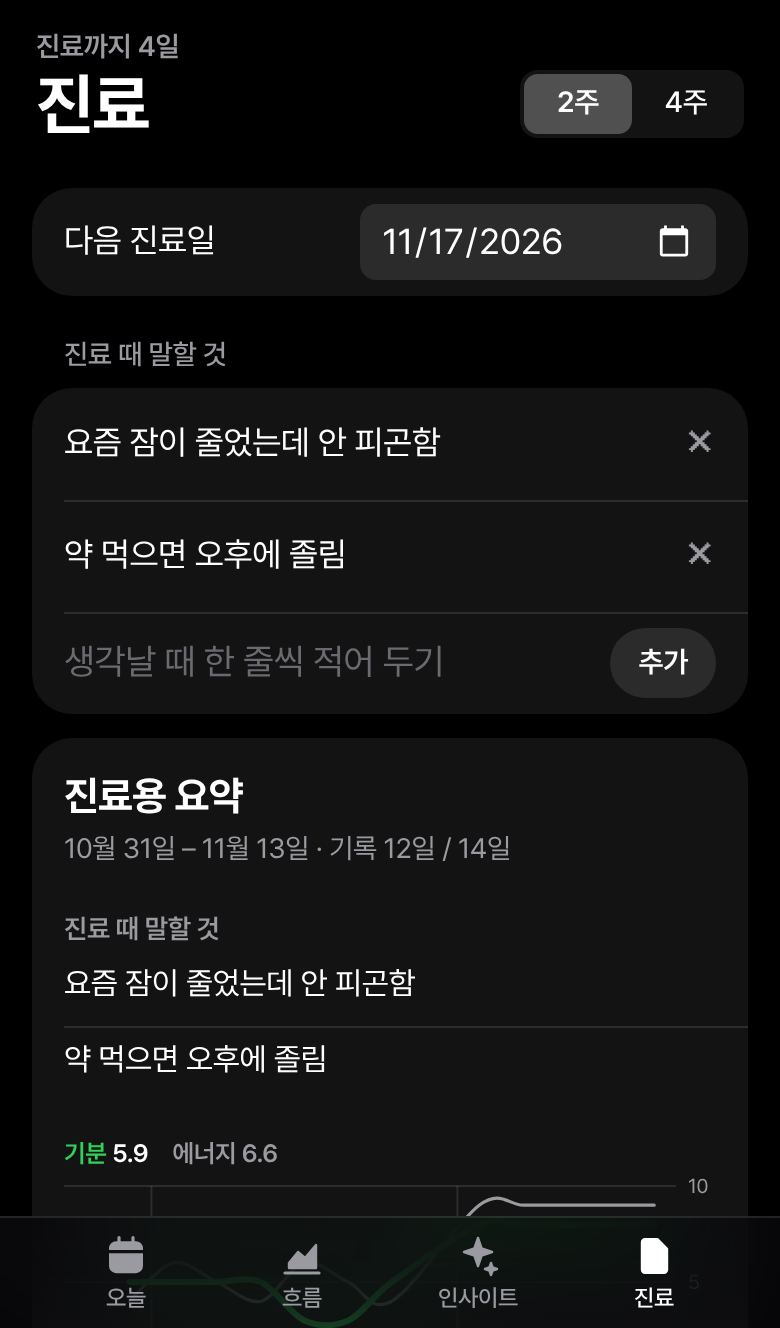
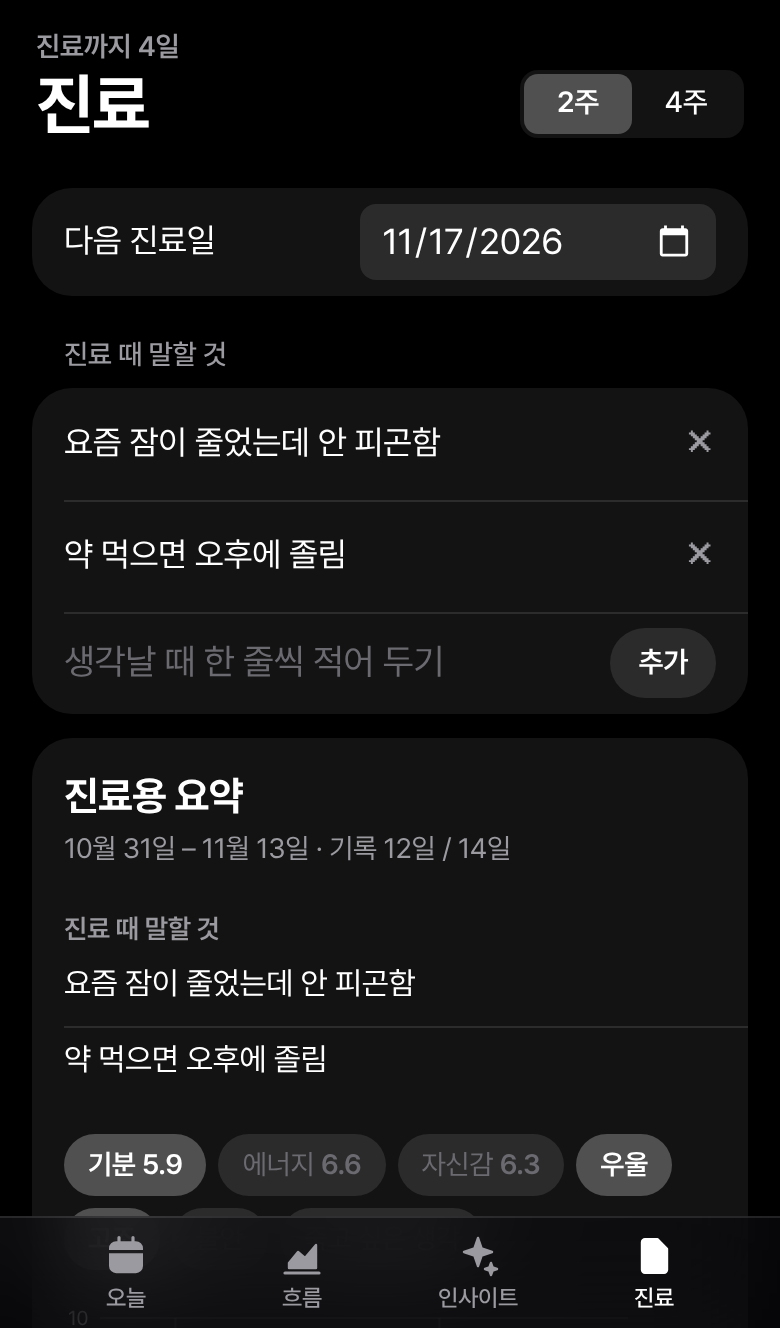
Tide: clinic picture is one big chart with lines you switch on and off
Mood, energy, confidence and the four symptoms share one large chart; buttons above it turn each line on or off and each line is named at its end. Sleep keeps its own row without the short-night dots (they were not understood). Medication days are thin o / x marks.

Claude-Session: https://claude.ai/code/session_01Du4KAy7crrN67i73oW7iBF

diff --git a/mood/js/views/clinic.js b/mood/js/views/clinic.js
@@ -1,5 +1,5 @@
 // 진료 화면: 다음 진료일, 진료 때 말할 것, 진료용 요약 (최근 2주/4주를 한 장으로)
-import { SHORT_SLEEP, summary } from '../analysis.js';
+import { summary } from '../analysis.js';
 import { DISCLAIMER, LEVELS } from '../constants.js';
 import { durText, md, parse, today } from '../dates.js';
 import { app, esc } from '../dom.js';
@@ -25,30 +25,36 @@ function nextText() {
   return left > 0 ? F('진료까지 {0}일', left) : left === 0 ? T('오늘 진료') : '';
 }
 
-// 한눈에 보는 그림: 날짜를 가로로 맞춰 놓고 항목마다 한 칸씩 위에서 아래로 쌓는다.
-// 칸마다 왼쪽 위에 이름(과 평균), 오른쪽 위에 한 줄 요약, 그 아래에 그림이 온다.
-//   기분·에너지(곡선) → 수면(곡선, 5시간 미만인 밤에 점) → 증상(곡선, 높을수록 심함) → 약·생리(그날에 점)
-// 선은 전부 부드러운 실선, 표시는 전부 동그라미다. 색은 CSS 변수를 따라가서 다크·라이트·인쇄에서 그대로 읽힌다.
+// 큰 그래프에 켜고 끌 수 있는 선들: [열쇠, 이름, 가장 높은 값]. 증상(0~4)은 그래프 높이에 맞춰 늘려 그린다.
+const lineDefs = () => [
+  ['mood', T('기분'), 10], ['energy', T('에너지'), 10], ['conf', T('자신감'), 10],
+  ['dep', T('우울'), 4], ['elev', T('고조'), 4], ['anx', T('불안'), 4], ['si', T('죽고 싶은 생각'), 4],
+];
+
+// 한눈에 보는 그림: 날짜를 가로로 맞춰 놓고
+//   큰 그래프 하나(켜 둔 선들, 선 끝에 이름) → 수면(곡선) → 약(먹은 날 ○, 안 먹은 날 ×) → 생리(○)
+// 를 위에서 아래로 쌓는다. 선은 전부 부드러운 실선이다. 색은 CSS 변수를 따라가서 다크·라이트·인쇄에서 그대로 읽힌다.
 function figure(s, width) {
-  const n = s.dates.length, pw = width - 20, col = pw / n;
-  const cx = (i) => col * (i + 0.5);
+  // 오른쪽에는 선 끝 이름이 들어갈 자리를 둔다 (이름이 긴 "죽고 싶은 생각"을 켰을 때만 넓게)
+  const n = s.dates.length, L = 18, R = clinicView.lines.includes('si') ? 80 : 44, pw = width - L - R, col = pw / n;
+  const cx = (i) => L + col * (i + 0.5);
   const ink = 'style="fill:var(--ink)"', mutedText = 'style="fill:var(--muted)"';
   const accent = tone('mood', 10) || 'var(--ink)';
   const marks = s.dates.map((d, i) => (i === 0 || parse(d).getDay() === 1 ? i : -1)).filter((i) => i >= 0);
-  let out = '', y = 12;
+  let out = '', y = 6;
 
   const head = (left, right) => {
-    out += `<text x="0" y="${y}" font-size="12.5" font-weight="600" ${ink}>${left}</text>`;
+    out += `<text x="${L}" y="${y}" font-size="12.5" font-weight="600" ${ink}>${left}</text>`;
     if (right) out += `<text x="${width}" y="${y}" font-size="11.5" text-anchor="end" ${mutedText}>${right}</text>`;
   };
   // 주마다(월요일) 세로줄: 그림이 있는 칸 안에만 긋는다
   const weekLines = (y1, y2) => marks.filter(Boolean).forEach((i) => {
-    out += `<line x1="${(col * i).toFixed(1)}" x2="${(col * i).toFixed(1)}" y1="${y1}" y2="${y2}" style="stroke:var(--line)"/>`;
+    out += `<line x1="${(L + col * i).toFixed(1)}" x2="${(L + col * i).toFixed(1)}" y1="${y1}" y2="${y2}" style="stroke:var(--line)"/>`;
   });
   const dateLabels = (at) => marks.forEach((i) => {
-    out += `<text x="${(col * i + 2).toFixed(1)}" y="${at}" font-size="10" ${mutedText}>${shortDate(s.dates[i])}</text>`;
+    out += `<text x="${(L + col * i + 2).toFixed(1)}" y="${at}" font-size="10" ${mutedText}>${shortDate(s.dates[i])}</text>`;
   });
-  const points = (key, yOf) => s.days.map((e, i) => (e && e[key] != null ? [cx(i), yOf(e[key]), e[key]] : null)).filter(Boolean);
+  const points = (key, yOf) => s.days.map((e, i) => (e && e[key] != null ? [cx(i), yOf(e[key])] : null)).filter(Boolean);
   // 값이 있는 날들을 부드러운 곡선으로 잇는다 (하루뿐이면 점 하나). area가 있으면 곡선 아래를 옅게 채운다.
   const curve = (pts, yMin, yMax, color, w, area) => {
     if (pts.length < 2) { pts.forEach((p) => { out += `<circle cx="${p[0].toFixed(1)}" cy="${p[1].toFixed(1)}" r="2.6" style="fill:${color}"/>`; }); return; }
@@ -56,58 +62,57 @@ function figure(s, width) {
     if (area) out += `<path d="${d}L${pts[pts.length - 1][0].toFixed(1)},${yMax}L${pts[0][0].toFixed(1)},${yMax}Z" style="fill:var(--fill)" stroke="none"/>`;
     out += `<path d="${d}" fill="none" stroke-linejoin="round" stroke-linecap="round" style="stroke:${color}" stroke-width="${w}"/>`;
   };
-  const floor = (at) => { out += `<line x1="0" x2="${pw}" y1="${at}" y2="${at}" style="stroke:var(--line)"/>`; };
-  const dots = (has) => {
-    const r = Math.max(2, Math.min(col / 2 - 1, 4));
-    s.dates.forEach((d, i) => { if (has(d, s.days[i])) out += `<circle cx="${cx(i).toFixed(1)}" cy="${y + 13}" r="${r.toFixed(1)}" ${ink}/>`; });
-    weekLines(y + 5, y + 21);
-  };
-  const avgOf = (st) => (st ? ` ${one(st.avg)}` : '');
+  const floor = (at) => { out += `<line x1="${L}" x2="${L + pw}" y1="${at}" y2="${at}" style="stroke:var(--line)"/>`; };
 
-  // 1. 기분 · 에너지 (0~10)
-  head(`<tspan style="fill:${accent}">${T('기분')}</tspan>${avgOf(s.mood)}<tspan dx="12" ${mutedText}>${T('에너지')}${avgOf(s.energy)}</tspan>`);
-  const SH = 96, top = y + 12, sy = (v) => top + (1 - v / 10) * SH;
-  [0, 5, 10].forEach((v) => { floor(sy(v)); out += `<text x="${pw + 6}" y="${sy(v) + 3.5}" font-size="10" ${mutedText}>${v}</text>`; });
+  // 1. 큰 그래프: 켜 둔 선들을 한 축 위에. 선 끝에 이름을 적는다 (겹치면 아래로 민다).
+  const SH = 150, top = y, sy = (v) => top + (1 - v / 10) * SH;
+  [0, 5, 10].forEach((v) => { floor(sy(v)); out += `<text x="${L - 6}" y="${sy(v) + 3.5}" font-size="10" text-anchor="end" ${mutedText}>${v}</text>`; });
   weekLines(top, top + SH);
-  curve(points('energy', sy), top, top + SH, 'var(--muted)', 1.6);
-  curve(points('mood', sy), top, top + SH, accent, 3);
+  const ends = [];
+  lineDefs().filter(([key]) => clinicView.lines.includes(key)).reverse().forEach(([key, name, max]) => {
+    const pts = points(key, (v) => sy(v / max * 10));
+    if (!pts.length) return;
+    const color = key === 'mood' ? accent : max === 10 ? 'var(--muted)' : 'var(--ink)';
+    curve(pts, top, top + SH, color, key === 'mood' ? 3 : 1.8);
+    ends.push({ name, color, x: pts[pts.length - 1][0] + 7, y: pts[pts.length - 1][1] + 3.5, bold: key === 'mood' });
+  });
+  ends.sort((a, b) => a.y - b.y).forEach((e, i) => {
+    if (i && e.y < ends[i - 1].y + 12) e.y = ends[i - 1].y + 12;
+    out += `<text x="${e.x.toFixed(1)}" y="${e.y.toFixed(1)}" font-size="10.5" font-weight="${e.bold ? 700 : 500}" style="fill:${e.color}">${e.name}</text>`;
+  });
   dateLabels(top + SH + 13);
-  y = top + SH + 40;
+  y = top + SH + 42;
 
-  // 2. 수면 (0~12시간): 5시간 미만인 밤에는 점을 찍는다
+  // 2. 수면 (0~12시간)
   head(`${T('수면')}${s.sleep ? ` ${durText(Math.round(s.sleep.avg))}` : ''}`, s.shortSleep.length ? F('5시간 미만 {0}일', s.shortSleep.length) : '');
-  const BH = 44, sTop = y + 10, base = sTop + BH, sleepPts = points('sleepMin', (m) => base - Math.min(m, 720) / 720 * BH);
+  const BH = 44, sTop = y + 10, base = sTop + BH;
   weekLines(sTop, base);
-  curve(sleepPts, sTop, base, 'var(--ink)', 2, true);
-  sleepPts.filter((p) => p[2] < SHORT_SLEEP).forEach((p) => { out += `<circle cx="${p[0].toFixed(1)}" cy="${p[1].toFixed(1)}" r="3.4" ${ink}/>`; });
+  curve(points('sleepMin', (m) => base - Math.min(m, 720) / 720 * BH), sTop, base, 'var(--ink)', 2, true);
   floor(base);
   y = base + 28;
 
-  // 3. 증상 (없음~매우 높음): 선이 높을수록 심한 날. 한 번도 없었으면 그림 없이 "없음"만 적는다.
-  [['dep', T('우울')], ['elev', T('고조')], ['anx', T('불안')], ['si', T('죽고 싶은 생각')]].forEach(([key, name]) => {
-    const any = s.days.some((e) => e && e[key]), high = s.high[key].length;
-    head(name, high ? F(key === 'si' ? '{0}일' : '높음 이상 {0}일', high) : any ? '' : T('없음'));
-    if (!any) { y += 24; return; }
-    const H = 26, t = y + 9, b = t + H;
-    weekLines(t, b);
-    curve(points(key, (v) => b - v / 4 * H), t, b, 'var(--ink)', 1.8, true);
-    floor(b);
-    y = b + 26;
-  });
-
-  // 4. 약 · 생리: 그날에 점
+  // 3. 약 · 생리: 얇은 선으로 먹은 날 ○, 안 먹은 날 ×
+  const r = Math.max(2, Math.min(col / 2 - 1.5, 4.2));
+  const marksRow = (has, cross) => {
+    s.dates.forEach((d, i) => {
+      const x = cx(i), my = y + 14;
+      if (has(d, s.days[i])) out += `<circle cx="${x.toFixed(1)}" cy="${my}" r="${r.toFixed(1)}" fill="none" stroke-width="1.2" style="stroke:var(--ink)"/>`;
+      else if (cross) {
+        const k = r * 0.75;
+        out += `<path d="M${(x - k).toFixed(1)},${(my - k).toFixed(1)}L${(x + k).toFixed(1)},${(my + k).toFixed(1)}M${(x + k).toFixed(1)},${(my - k).toFixed(1)}L${(x - k).toFixed(1)},${(my + k).toFixed(1)}" fill="none" stroke-width="1" stroke-linecap="round" style="stroke:var(--faint)"/>`;
+      }
+    });
+    y += 44;
+  };
   s.meds.forEach(([m, count]) => {
     head(esc(`${m.name}${m.dose ? ` ${m.dose}` : ''}`), F('{0}일 중 {1}일', n, count));
-    if (count) dots((d) => medsFor(d).some((x) => medKey(x) === medKey(m)));
-    y += count ? 44 : 24;
+    marksRow((d) => medsFor(d).some((x) => medKey(x) === medKey(m)), true);
   });
   if (s.period.length) {
     head(T('생리'), F('{0}일', s.period.length));
-    dots((d, e) => e && e.period);
-    y += 44;
+    marksRow((d, e) => e && e.period, false);
   }
-  dateLabels(y);
-  y += 8;
+  dateLabels(y - 6);
   return `<svg id="sum-fig" width="${width}" height="${y}" role="img" aria-label="${T('진료용 요약')}">${out}</svg>`;
 }
 
@@ -131,15 +136,19 @@ function summaryRows(s) {
 export function summaryHtml(weeks) {
   const s = summary(weeks), talk = clinicData().notes;
   const width = Math.max(240, Math.min(app.clientWidth, 480) - 32 - 32);
-  // 그림에 안 나오는 것만 짧은 딱지로: 자신감 평균, 기분이 높았던 날 체크한 항목
+  // 큰 그래프의 선을 켜고 끄는 단추: 기분·에너지·자신감은 평균을 옆에 적는다
+  const toggles = lineDefs().map(([key, name, max]) => `<button class="sum-tog" data-act="clinicLine" data-k="${key}" aria-pressed="${clinicView.lines.includes(key)}">${name}${max === 10 && s[key] ? ` <b>${one(s[key].avg)}</b>` : ''}</button>`).join('');
+  // 눈에 띄는 것은 짧은 딱지로: 며칠인지만 적는다
   const chips = [
-    ...(s.conf ? [[T('자신감 평균'), one(s.conf.avg)]] : []), ...s.signs.map(([name, c]) => [name, F('{0}일', c)]),
-  ].map(([name, value]) => `<span class="sum-chip">${esc(name)} <b>${value}</b></span>`).join('');
+    [T('우울 높음 이상'), s.high.dep.length], [T('고조 높음 이상'), s.high.elev.length], [T('불안 높음 이상'), s.high.anx.length],
+    [T('죽고 싶은 생각'), s.high.si.length], ...s.signs,
+  ].filter(([, c]) => c).map(([name, c]) => `<span class="sum-chip">${esc(name)} <b>${F('{0}일', c)}</b></span>`).join('');
   return `
     <div class="sum-top"><b>${T('진료용 요약')}</b><span>${md(parse(s.dates[0]))} – ${md(parse(s.dates[s.dates.length - 1]))} · ${F('기록 {0}일 / {1}일', s.got.length, s.dates.length)}</span></div>
     ${talk.length ? `<div class="sum-h">${T('진료 때 말할 것')}</div>${talk.map((x) => `<div class="li say">${esc(x)}</div>`).join('')}` : ''}
+    <div class="sum-togs">${toggles}</div>
     <div class="sum-fig">${figure(s, width)}</div>
-    <p class="sum-key">${T('이름 옆 숫자는 평균 · 수면 선의 점은 5시간 미만인 밤 · 증상은 선이 높을수록 심한 날')}</p>
+    <p class="sum-key">${T('위 이름을 누르면 선이 켜지고 꺼져요 · 이름 옆 숫자는 평균 · 증상은 맨 아래가 없음, 맨 위가 매우 높음 · 약은 먹은 날 ○, 안 먹은 날 ×')}</p>
     ${chips ? `<div class="sum-chips">${chips}</div>` : ''}
     ${s.signals.length ? `<div class="sum-h">${T('지금 떠 있는 신호')}</div>${s.signals.map((x) => `<div class="li say">${esc(x)}</div>`).join('')}` : ''}
     ${s.notes.length ? `<div class="sum-h">${T('메모')}</div>${s.notes.map(([d, note]) => `<div class="li say note"><small>${shortDate(d)}</small> ${esc(note)}</div>`).join('')}` : ''}

diff --git a/mood/tests/smoke.js b/mood/tests/smoke.js
@@ -198,8 +198,12 @@ function seed() {
 
   // 5-2. 진료 탭: 다음 진료일, 말할 것, 요약
   await page.click('[data-tab=clinic]');
-  check('진료용 요약에 그림과 눈에 띄는 날, 약이 나옴', (await page.$$('#sum-fig circle')).length > 3 && (await page.$$('#sum-fig path')).length >= 5 && (await page.$$('#sum-fig rect')).length === 0
-    && (await text('#sum-fig')).includes('높음 이상') && (await text('#sum-fig')).includes('브린텔릭스') && (await text('#sum-fig')).includes('5시간 미만'));
+  check('진료용 요약에 그림과 눈에 띄는 날, 약이 나옴', (await page.$$('#sum-fig circle')).length > 3 && (await page.$$('#sum-fig path')).length >= 4 && (await page.$$('#sum-fig rect')).length === 0
+    && (await text('#summary')).includes('고조 높음 이상') && (await text('#sum-fig')).includes('브린텔릭스') && (await text('#sum-fig')).includes('5시간 미만'));
+  const anxOff = !(await text('#sum-fig')).includes('불안');
+  await page.click('.sum-tog[data-k=anx]');
+  check('큰 그래프에서 선을 켜고 끔', anxOff && (await text('#sum-fig')).includes('불안') && (await page.getAttribute('.sum-tog[data-k=anx]', 'aria-pressed')) === 'true');
+  await page.click('.sum-tog[data-k=anx]');
   check('요약 그림이 카드 밖으로 안 넘침', await page.evaluate(() => document.querySelector('#sum-fig').getBoundingClientRect().right <= document.querySelector('#summary').getBoundingClientRect().right));
   await page.fill('#c-note', '약 먹으면 오후에 졸림'); await page.press('#c-note', 'Enter');
   check('말할 것 추가 (엔터)', (await store()).clinic.notes[0] === '약 먹으면 오후에 졸림' && (await text('#summary')).includes('약 먹으면 오후에 졸림'));

diff --git a/mood/app.css b/mood/app.css
@@ -365,10 +365,14 @@ input[type=date] { border: 0; outline: none; background: var(--card2); color: va
 .lock-pad .lock-txt { background: none; font-family: inherit; font-size: calc(14px * var(--fs, 1.12)); color: var(--muted); }
 
 /* 진료용 요약: 숫자 네 칸, 한눈에 보는 그림, 딱지 */
+.sum-togs { display: flex; flex-wrap: wrap; gap: 6px; padding: 16px 16px 0; }
+.sum-tog { background: var(--card2); border-radius: 999px; padding: 6px 12px; font-size: calc(12.5px * var(--fs, 1.12)); color: var(--faint); }
+.sum-tog b { font-family: var(--round); font-weight: 600; }
+.sum-tog[aria-pressed=true] { background: var(--sel); color: var(--text); font-weight: 600; }
 .sum-fig { padding: 18px 16px 0; }
 .sum-fig svg { display: block; overflow: visible; font-family: inherit; }
 .sum-key { color: var(--faint); font-size: calc(10.5px * var(--fs, 1.12)); margin: 6px 16px 0; line-height: 1.45; }
 .sum-chips { display: flex; flex-wrap: wrap; gap: 6px; padding: 12px 16px 2px; }
 .sum-chip { background: var(--card2); border-radius: 999px; padding: 5px 11px; font-size: calc(12.5px * var(--fs, 1.12)); color: var(--muted); }
 .sum-chip b { color: var(--text); font-weight: 600; }
-@media print { .sum-chip { border: 1px solid #ccc; } }
+@media print { .sum-chip { border: 1px solid #ccc; } .sum-togs { display: none; } }

diff --git a/mood/js/i18n.js b/mood/js/i18n.js
@@ -50,10 +50,8 @@ const DICT = {
   '추가': 'Add',
   '진료용 요약': 'Summary for your appointment',
   '평균 (가장 낮은 날–가장 높은 날)': 'Average (lowest–highest day)',
-  '이름 옆 숫자는 평균 · 수면 선의 점은 5시간 미만인 밤 · 증상은 선이 높을수록 심한 날': 'Numbers beside names are averages · dots on the sleep line are nights under 5 hours · a higher symptom line means a harder day',
-  '자신감 평균': 'Confidence avg',
+  '위 이름을 누르면 선이 켜지고 꺼져요 · 이름 옆 숫자는 평균 · 증상은 맨 아래가 없음, 맨 위가 매우 높음 · 약은 먹은 날 ○, 안 먹은 날 ×': 'Tap a name above to show or hide its line · numbers beside names are averages · symptoms run from none at the bottom to very high at the top · medication: ○ taken, × not taken',
   '5시간 미만 {0}일': 'Under 5 h on {0} days',
-  '높음 이상 {0}일': 'High or above on {0} days',
   '눈에 띄는 날': 'Days that stand out',
   '지금 떠 있는 신호': 'Current signals',
   '기분이 높았던 날 체크한 항목': 'Items checked on high days',

diff --git a/mood/sw.js b/mood/sw.js
@@ -1,7 +1,7 @@
 // 오프라인에서도 열리도록 앱 파일을 저장해 둔다.
 // 인터넷이 될 때는 항상 최신 파일을 먼저 받아오고, 안 될 때만 저장본을 쓴다.
 // 앱 파일을 바꿔서 올릴 때마다 CACHE 숫자를 하나 올린다. js/ 에 파일을 더하면 JS 목록에도 더한다.
-const CACHE = 'tide-v47';
+const CACHE = 'tide-v48';
 const JS = ['main', 'config', 'i18n', 'constants', 'store', 'dates', 'theme', 'icons', 'dom', 'state', 'meds', 'analysis', 'files', 'render', 'swipe', 'lock',
   'views/today', 'views/trend', 'views/insight', 'views/record', 'views/settings', 'views/clinic', 'views/notes'];
 const FILES = ['./', 'index.html', 'app.css', 'manifest.webmanifest',

diff --git a/mood/js/main.js b/mood/js/main.js
@@ -52,6 +52,11 @@ const actions = {
   copyAi: async () => { await copyText(aiSummary()); toast(T('복사했어요. AI 앱에 붙여 넣으세요')); },
   // 진료 탭
   clinicWeeks: (el) => { clinicView.weeks = Number(el.dataset.w); render(); },
+  clinicLine: (el) => {
+    const k = el.dataset.k, on = clinicView.lines;
+    clinicView.lines = on.includes(k) ? on.filter((x) => x !== k) : [...on, k];
+    render();
+  },
   clinicNoteAdd: () => {
     const text = $('#c-note').value.trim();
     if (!text) return;

diff --git a/mood/js/state.js b/mood/js/state.js
@@ -8,5 +8,5 @@ export const standalone = () => window.navigator.standalone === true || matchMed
 // ---------- 흐름 화면 (주 / 월) ----------
 export const trend = { mode: 'week', anchor: today(), pick: null };
 
-// ---------- 진료 화면 (요약 기간: 2주 / 4주) ----------
-export const clinicView = { weeks: 2 };
+// ---------- 진료 화면 (요약 기간: 2주 / 4주, 큰 그래프에 켜 둔 선) ----------
+export const clinicView = { weeks: 2, lines: ['mood', 'dep', 'elev'] };

diff --git a/mood/js/config.js b/mood/js/config.js
@@ -2,4 +2,4 @@
 export const KEY = 'tide.v1', OLD_KEY = 'harugyeol.v1';
 
 // 설정 화면 맨 아래에 보이는 번호. 올릴 때마다 sw.js의 CACHE 숫자와 같이 하나 올린다.
-export const VERSION = 47;
+export const VERSION = 48;
